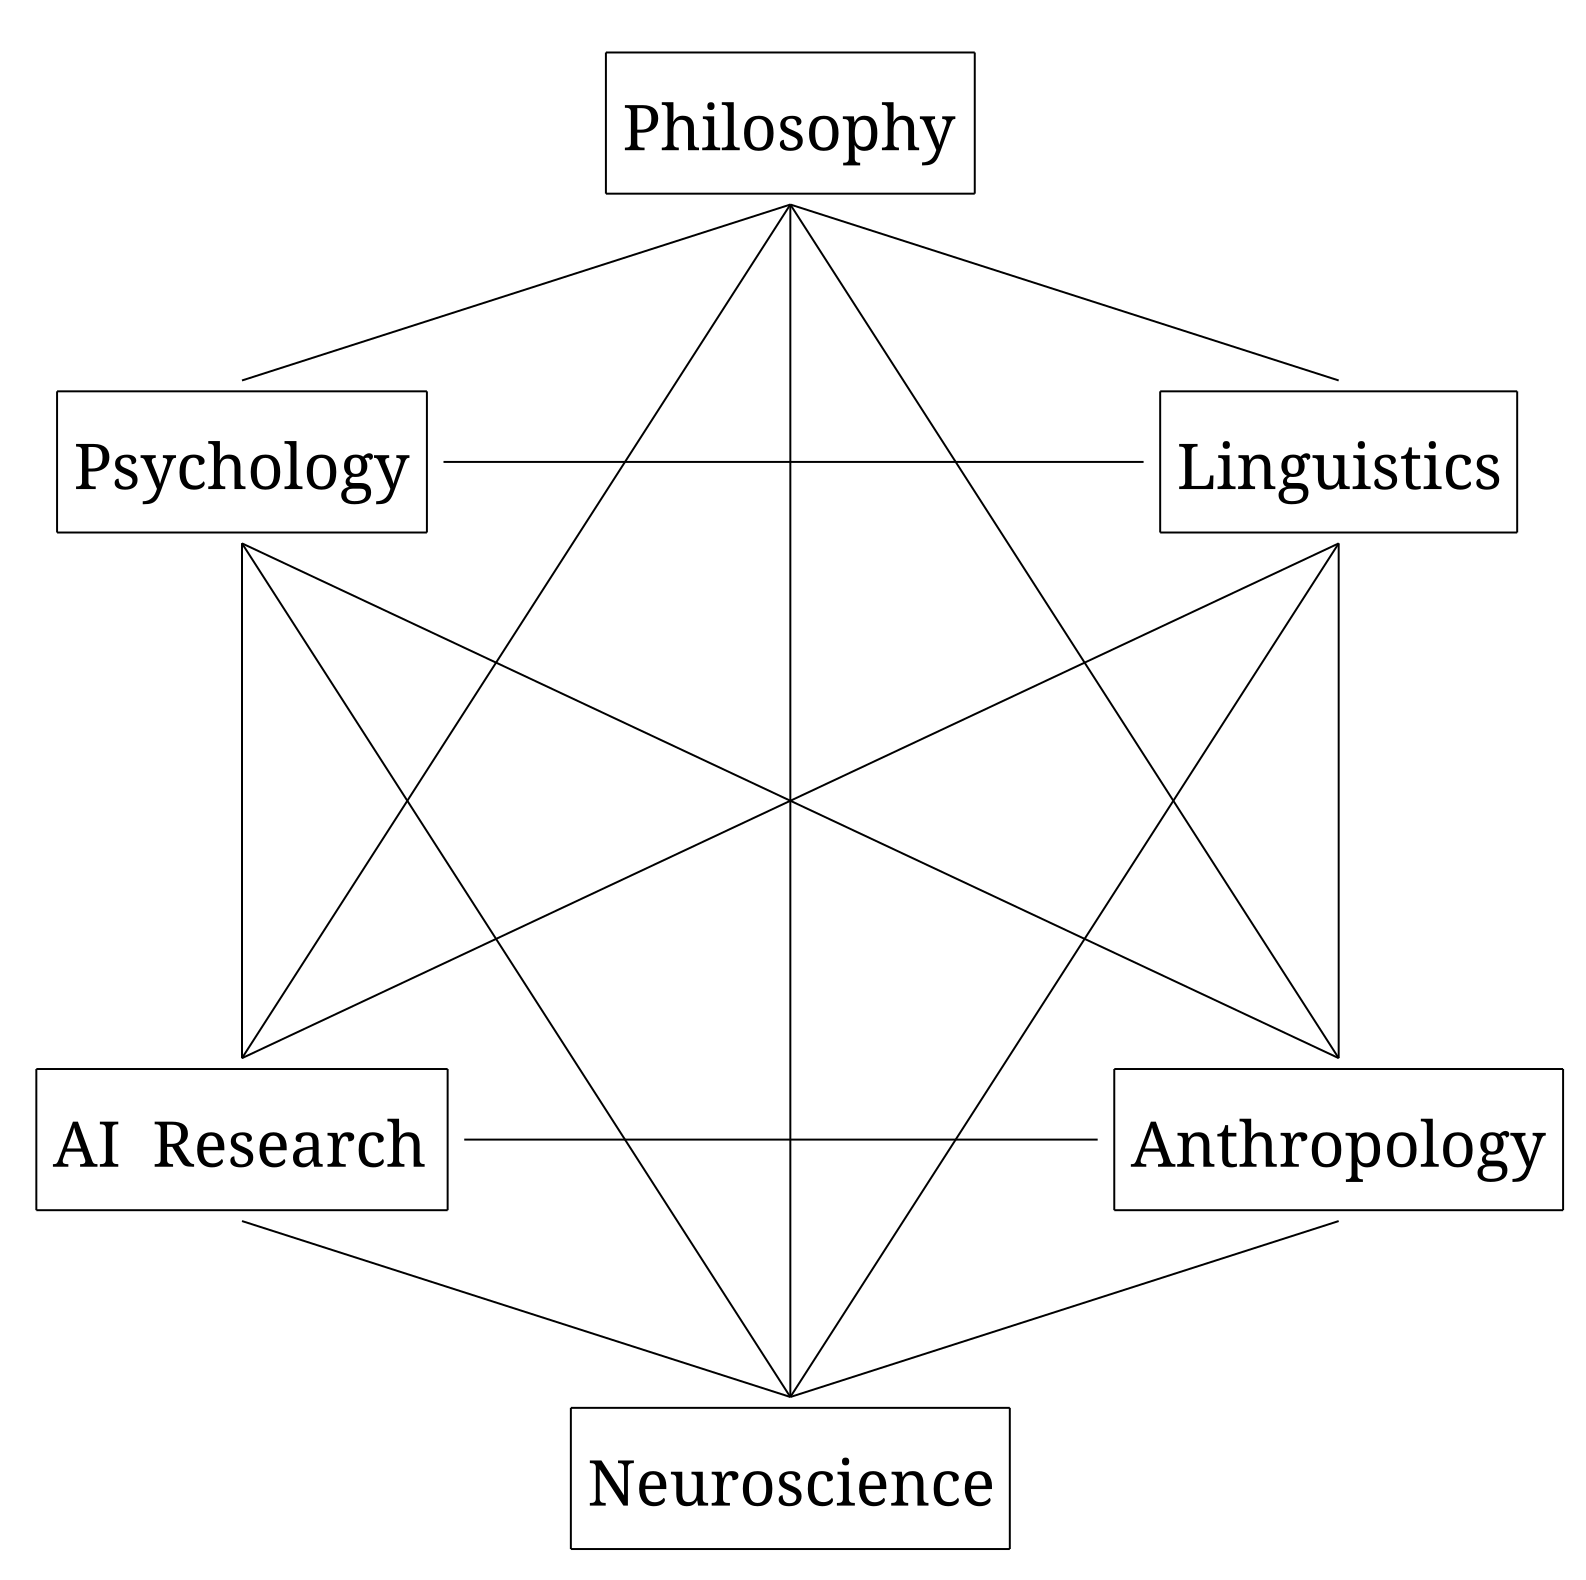
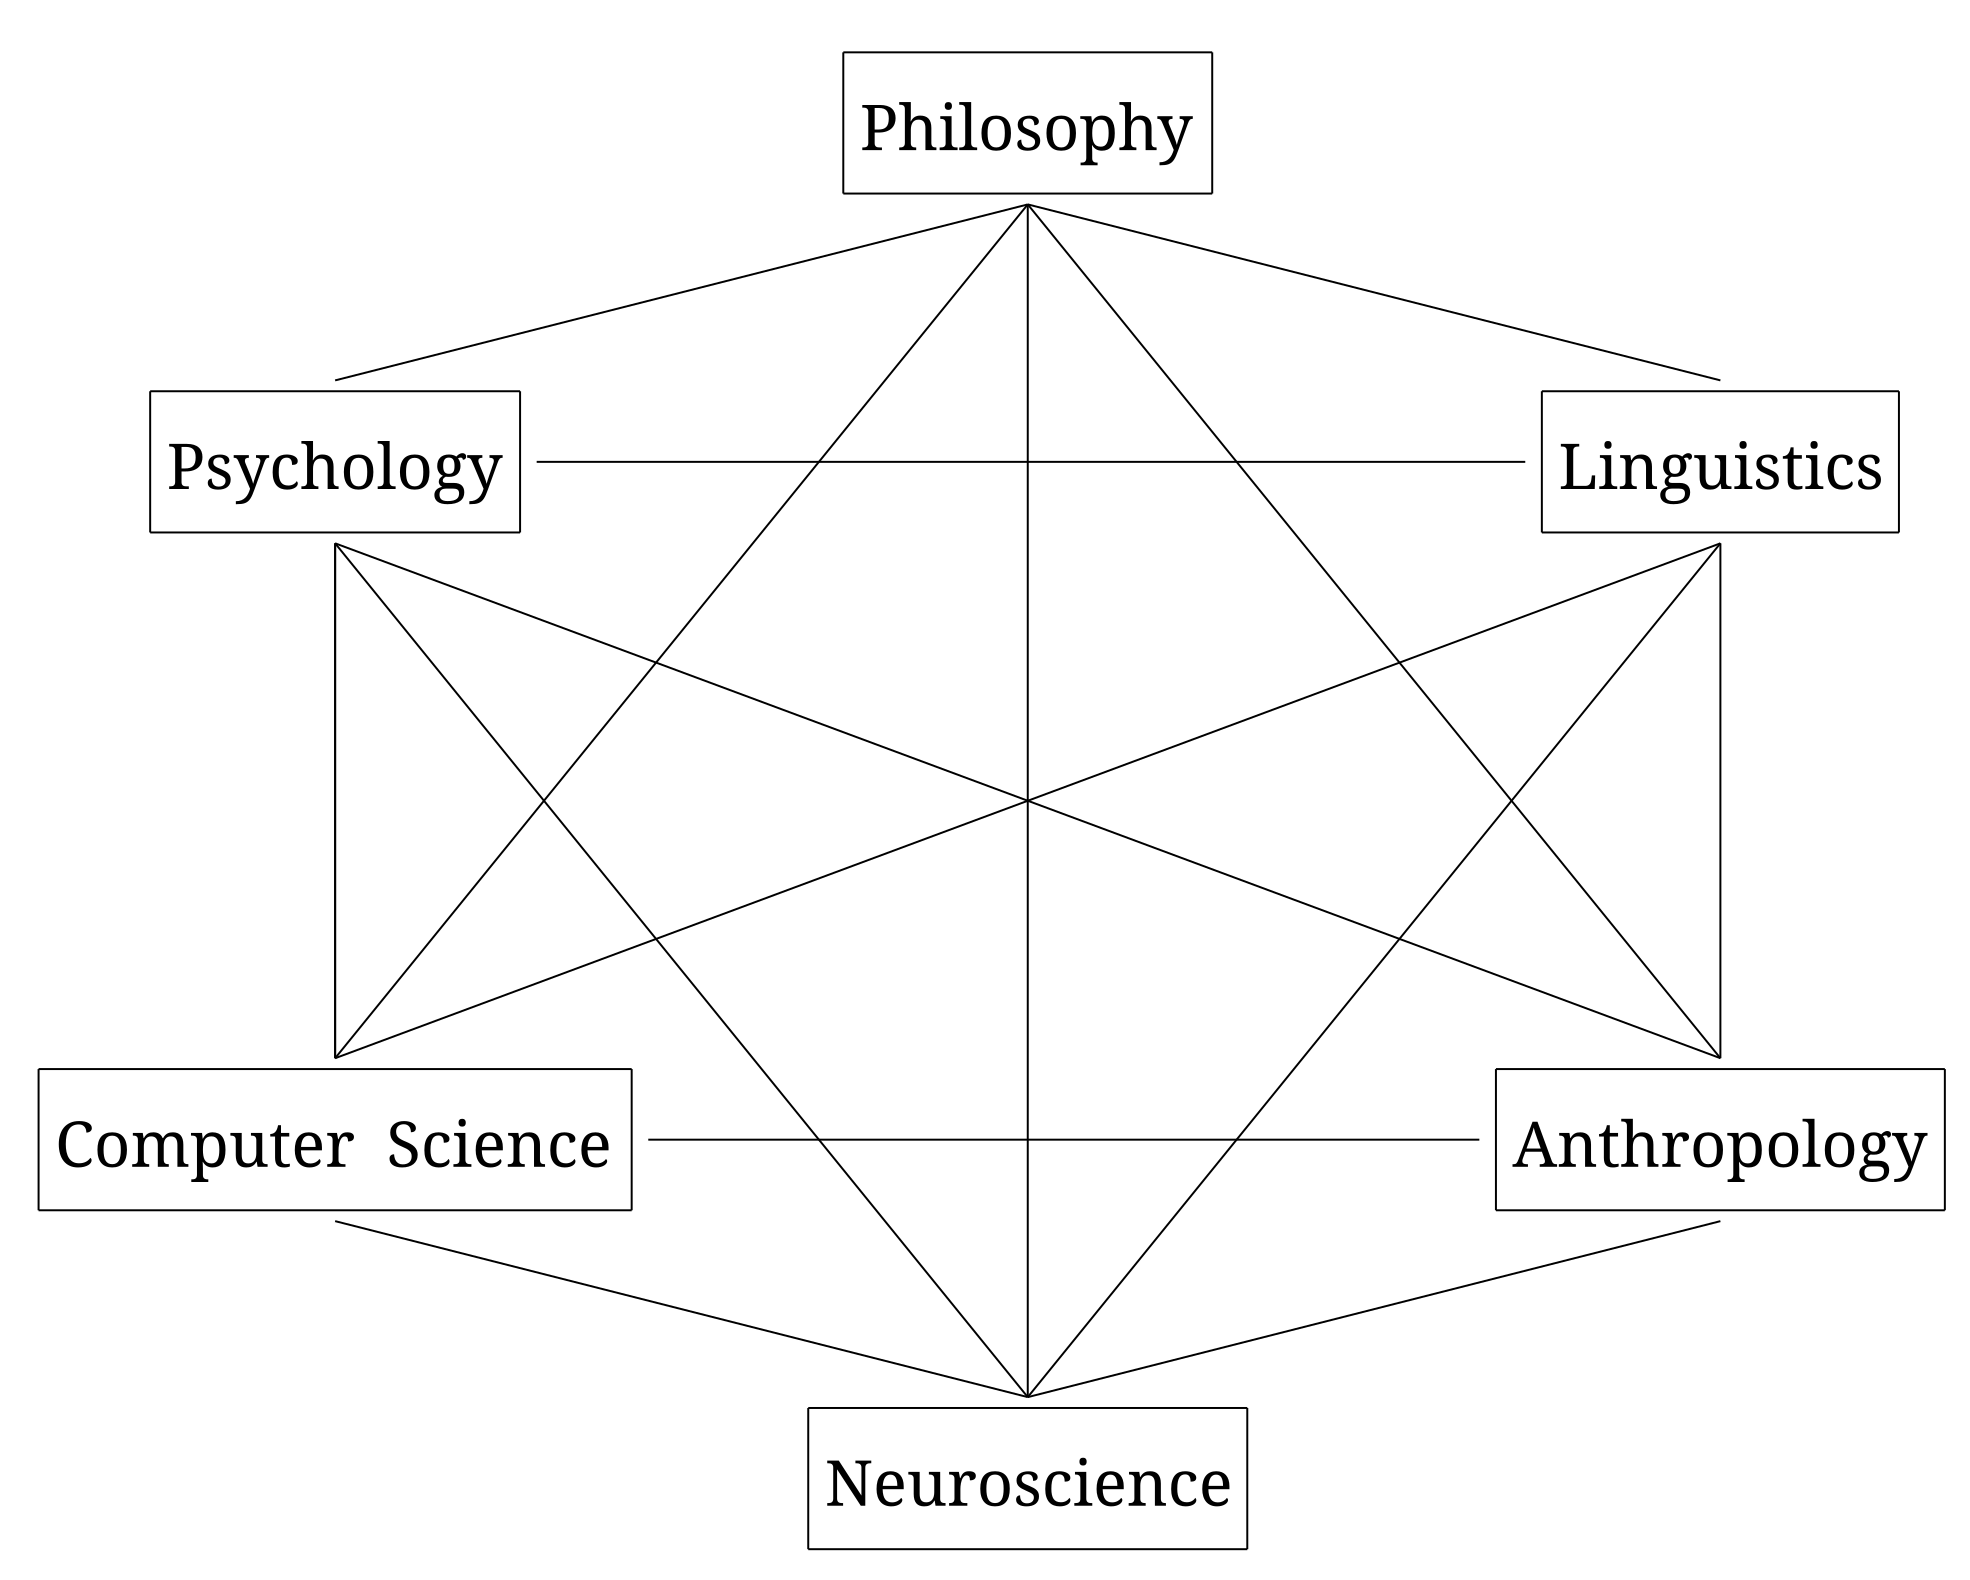
Example 041

diff --git a/docs/_examples/041.md b/docs/_examples/041.md
@@ -1,5 +1,6 @@
 ---
 name: "041"
+caption: "Cognitive science linkages"
 color: "none"
 caption: ""
 category: "Miscellaneous"
@@ -8,13 +9,13 @@ symmetrization: "on"
 connector: "auto"
 hide_default_connectors: "on"
 font: "Noto Serif"
-reference: "Gentner 2019"
+reference: "Miller et al. 1978"
 ---
 ```
 [##Philosophy+-1+-2+-3+-4+-5
   [##Psychology+-1+-6+-7+-8+-9+-10
     [<>
-      [##AI<>Research+-2+-6+-7+-11+-12+-13]
+      [##Computer<>Science+-2+-6+-7+-11+-12+-13]
     ]
   ]
   [<>
